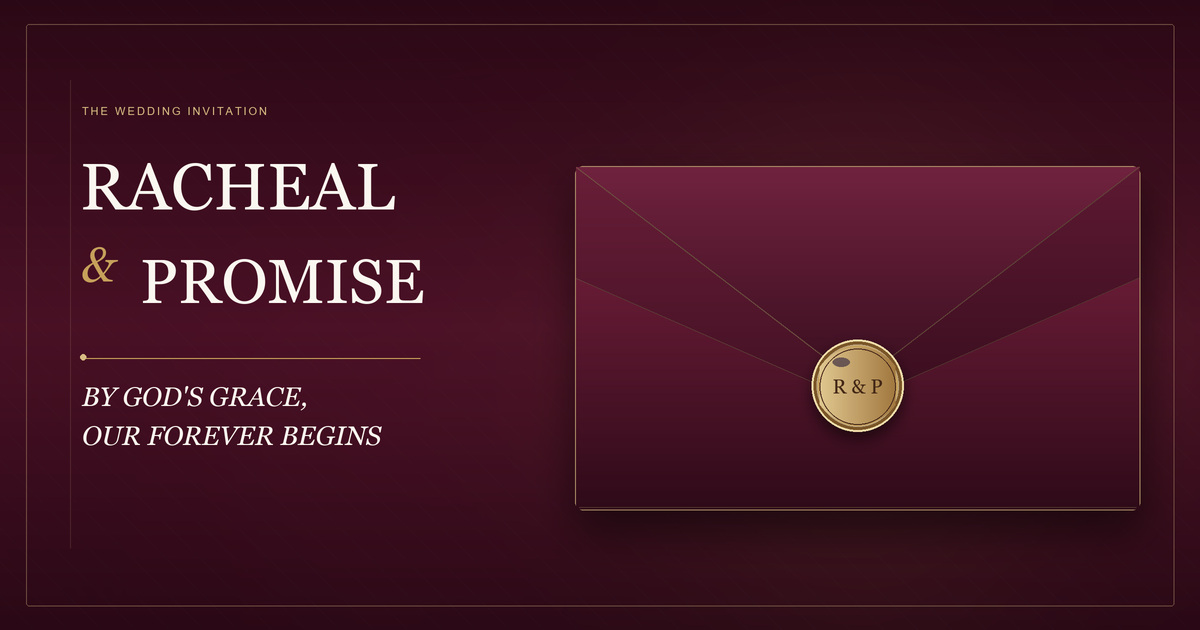
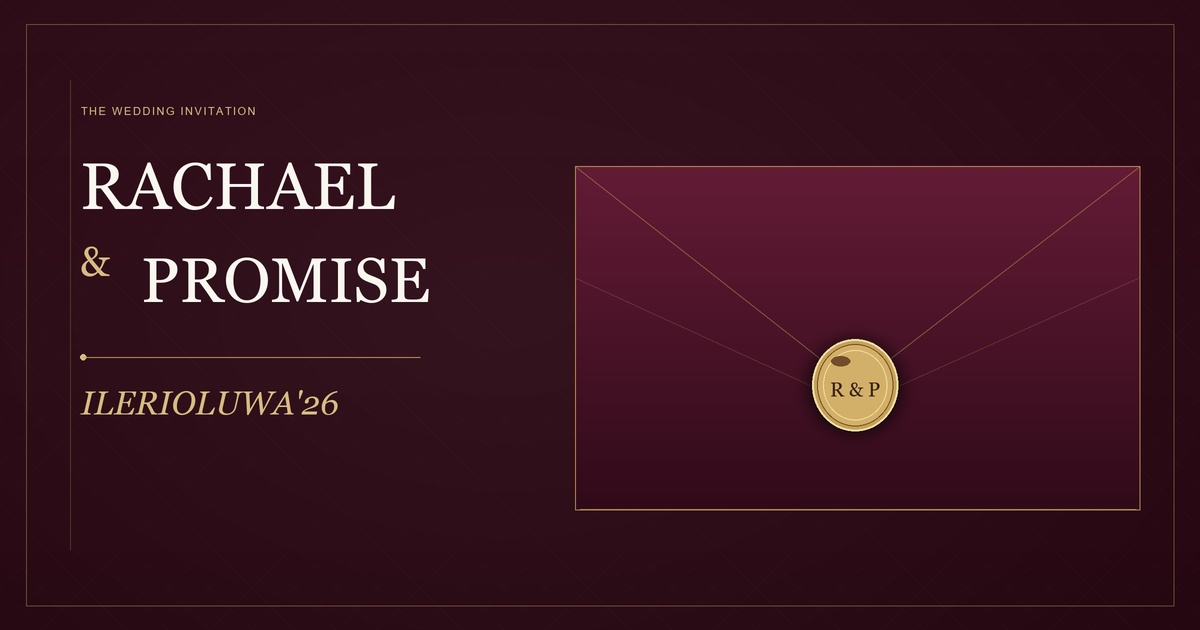
updated social sharing image

diff --git a/wedding-invitation/index.html b/wedding-invitation/index.html
@@ -17,7 +17,7 @@
   <meta property="og:image:height" content="630">
   <meta property="og:image:alt" content="RACHAEL &amp; PROMISE wedding invitation with a burgundy envelope and champagne-gold R &amp; P seal">
   <meta property="og:url" content="https://racheal-promise.vercel.app/">
-  <meta property="og:site_name" content="RACHEAL &amp; PROMISE Wedding Invitation">
+  <meta property="og:site_name" content="RACHAEL &amp; PROMISE Wedding Invitation">
   <meta name="twitter:card" content="summary_large_image">
   <meta name="twitter:title" content="RACHAEL &amp; PROMISE | Our Wedding Invitation">
   <meta name="twitter:description" content="ILERIOLUWA'26">
